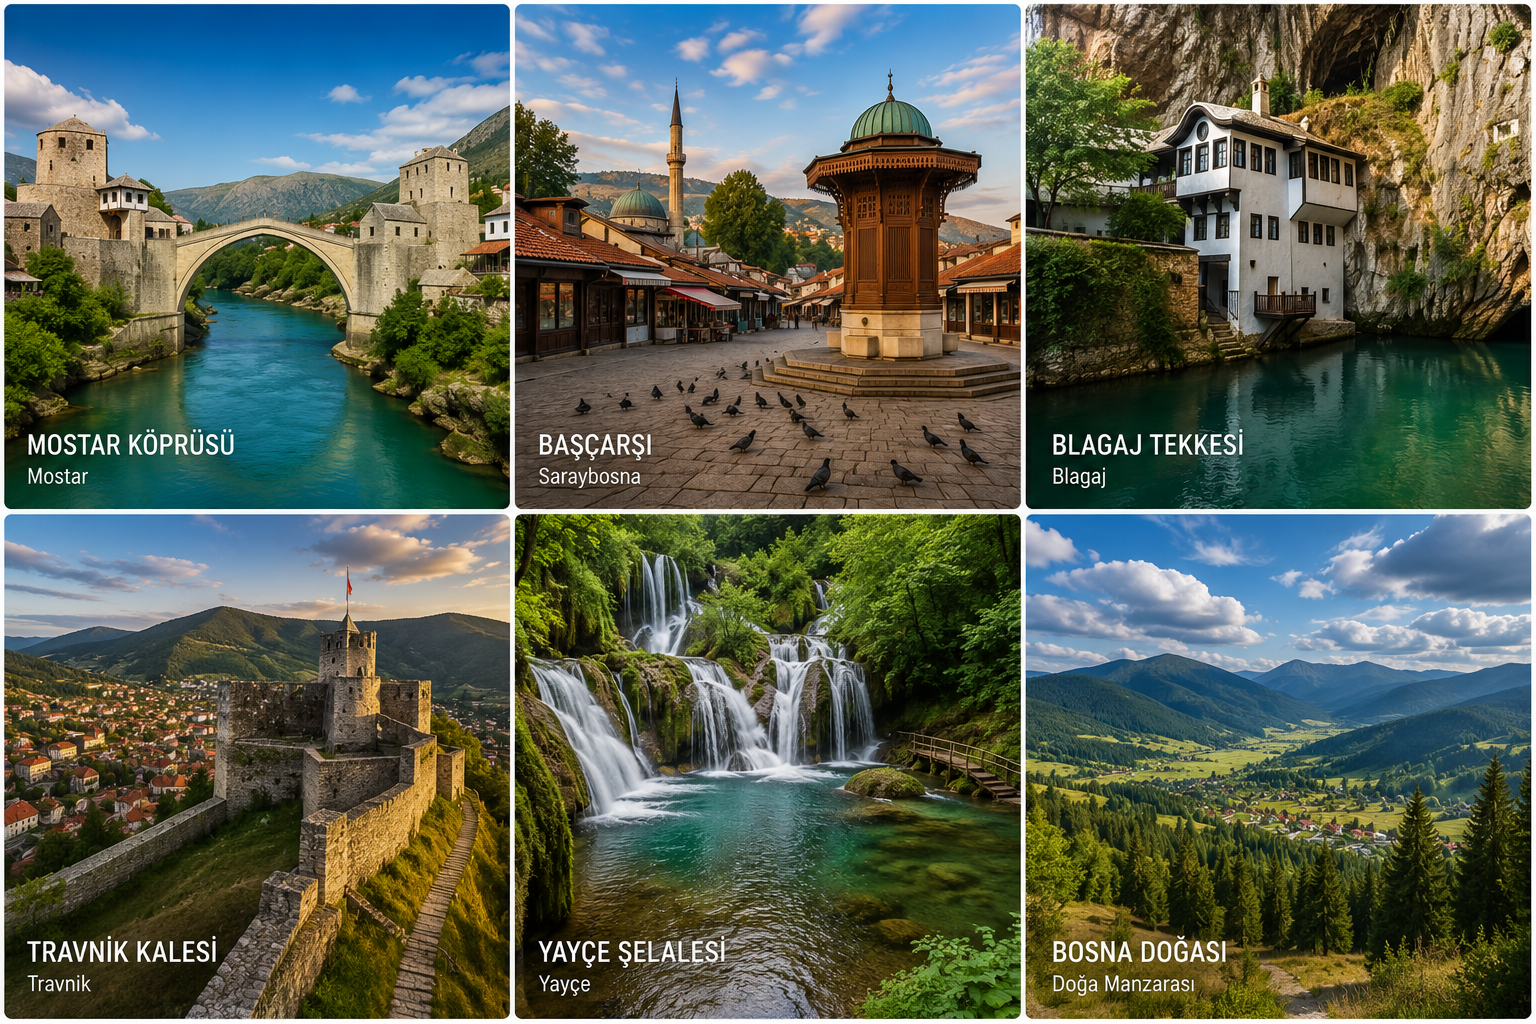
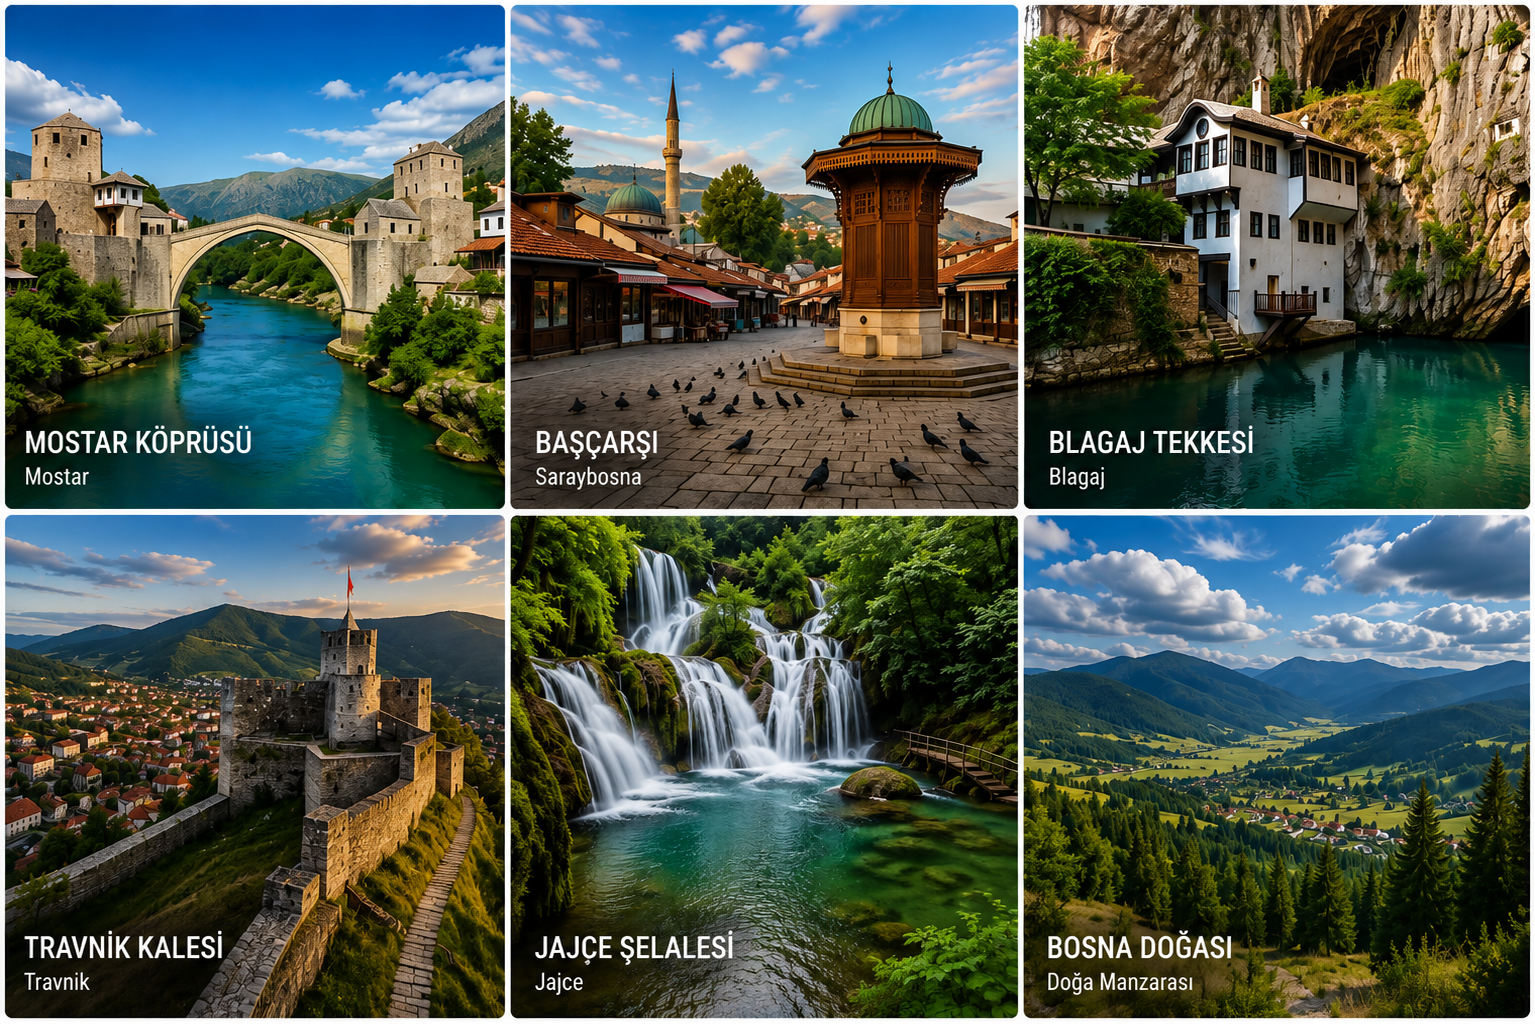
Jajce görseli güncellendi

diff --git a/app/components/Tours.tsx b/app/components/Tours.tsx
@@ -1,67 +1,194 @@
 const tours = [
   {
-    title: "Saraybosna Turu",
-    description:
-      "Başçarşı, Sebil, Latin Köprüsü ve Tünel Müzesi.",
-    duration: "Tam Gün",
-  },
-  {
     title: "Mostar Turu",
+    image: "/images/hero.png",
     description:
-      "Mostar Köprüsü, Blagaj Tekkesi ve Poçitelj.",
-    duration: "Tam Gün",
+      "Mostar Köprüsü, Blagaj Tekkesi ve Poçitel'in tarihi atmosferini keşfedin.",
   },
+
   {
-    title: "Travnik & Jajce Turu",
+    title: "Saraybosna Turu",
+    image: "/images/saraybosna.jpg",
     description:
-      "Travnik Kalesi, Plava Voda, Jajce Şelalesi ve tarihi şehir merkezi.",
-    duration: "Tam Gün",
+      "Başçarşı, Sebil, Latin Köprüsü ve Tünel Müzesi ile Saraybosna'nın tarihini keşfedin.",
+  },
+
+  {
+    title: "Travnik & Yayçe Turu",
+    image: "/images/travnik.jpg",
+    description:
+      "Travnik Kalesi, Plava Voda ve Yayçe Şelalesi'nin eşsiz güzelliklerini görün.",
   },
 ];
 
+
 export default function Tours() {
+
   return (
+
     <section
       id="turlar"
-      className="bg-slate-950 text-white py-20 px-6"
+      className="
+      py-24
+      px-6
+      bg-slate-100
+      dark:bg-slate-950
+      "
     >
-      <div className="max-w-6xl mx-auto">
-        <h2 className="text-4xl font-bold text-center mb-12">
-          Popüler Turlar
-        </h2>
 
-        <div className="grid md:grid-cols-3 gap-8">
-          {tours.map((tour) => (
+      <div className="max-w-7xl mx-auto">
+
+
+        <div className="text-center mb-14">
+
+
+          <h2 className="
+          text-4xl
+          md:text-5xl
+          font-extrabold
+          text-slate-900
+          dark:text-white
+          ">
+
+            Popüler Turlar
+
+          </h2>
+
+
+          <p className="
+          mt-4
+          text-lg
+          text-slate-600
+          dark:text-slate-300
+          ">
+
+            Bosna'nın en güzel rotalarını keşfedin.
+
+          </p>
+
+
+        </div>
+
+
+
+
+        <div
+          className="
+          grid
+          md:grid-cols-3
+          gap-8
+          "
+        >
+
+
+          {tours.map((tour, index) => (
+
             <div
-              key={tour.title}
-              className="bg-slate-900 rounded-2xl p-6 border border-slate-800 hover:border-emerald-500 transition-all duration-300 hover:-translate-y-2"
+
+              key={index}
+
+              className="
+              bg-white
+              dark:bg-slate-900
+              rounded-3xl
+              overflow-hidden
+              shadow-xl
+              hover:-translate-y-2
+              transition
+              "
+
             >
-              <h3 className="text-2xl font-semibold mb-3">
-                {tour.title}
-              </h3>
 
-              <p className="text-slate-300 mb-6">
-                {tour.description}
-              </p>
 
-              <div className="flex items-center justify-between">
-                <span className="text-emerald-400 font-medium">
-                  {tour.duration}
-                </span>
+              <img
+
+                src={tour.image}
+
+                alt={tour.title}
+
+                className="
+                w-full
+                h-64
+                object-cover
+                "
+
+              />
+
+
+
+              <div className="p-6">
+
+
+                <h3 className="
+                text-2xl
+                font-bold
+                text-slate-900
+                dark:text-white
+                mb-3
+                ">
+
+                  {tour.title}
+
+                </h3>
+
+
+
+
+                <p className="
+                text-slate-600
+                dark:text-slate-300
+                leading-relaxed
+                mb-6
+                ">
+
+                  {tour.description}
+
+                </p>
+
+
+
 
                 <a
-                  href="https://wa.me/905332966518"
-                  target="_blank"
-                  rel="noopener noreferrer"
-                  className="bg-emerald-600 hover:bg-emerald-700 px-4 py-2 rounded-lg transition"
+
+                  href="/rezervasyon"
+
+                  className="
+                  block
+                  text-center
+                  bg-blue-600
+                  hover:bg-blue-700
+                  text-white
+                  py-3
+                  rounded-xl
+                  font-bold
+                  transition
+                  "
+
                 >
-                  Bilgi Al
+
+                  Rezervasyon
+
                 </a>
+
+
+
               </div>
+
+
             </div>
+
+
           ))}
+
+
         </div>
+
+
       </div>
+
+
     </section>
+
   );
+
 }
